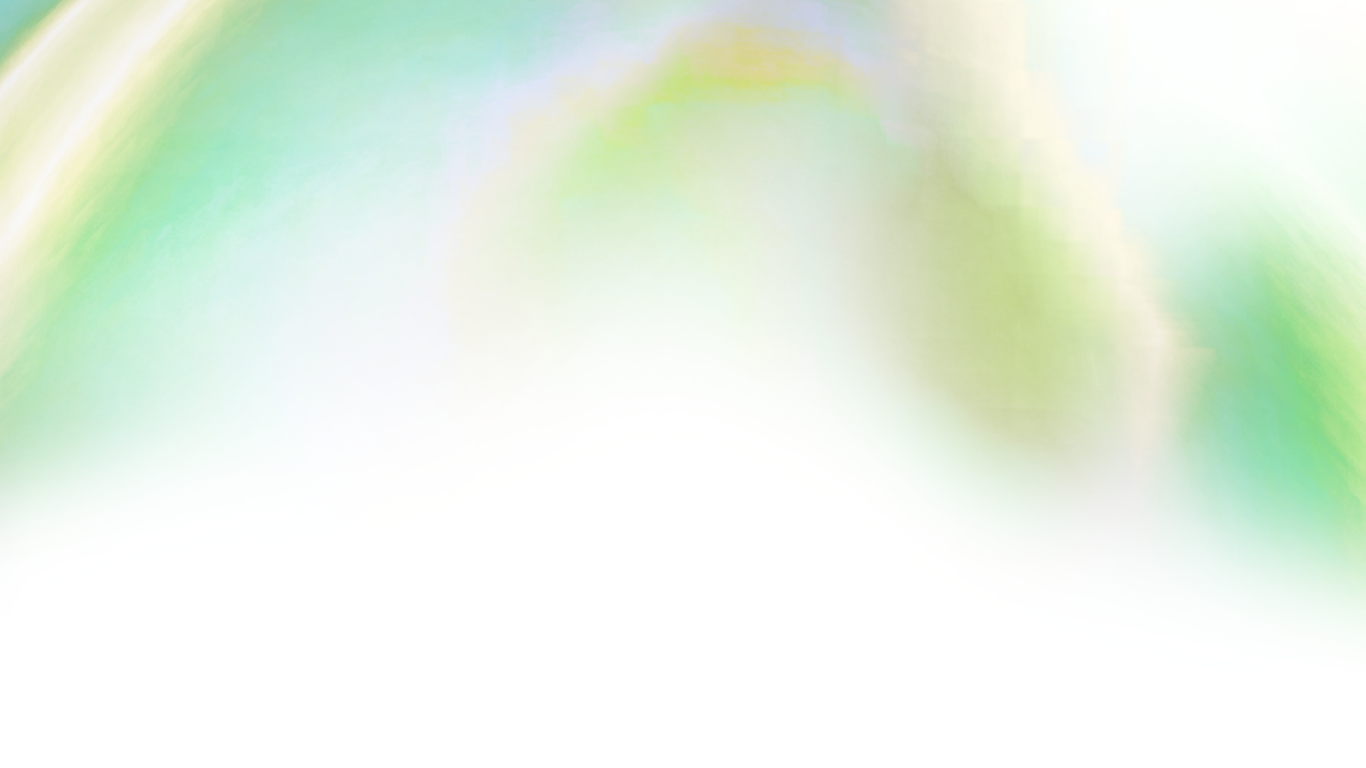
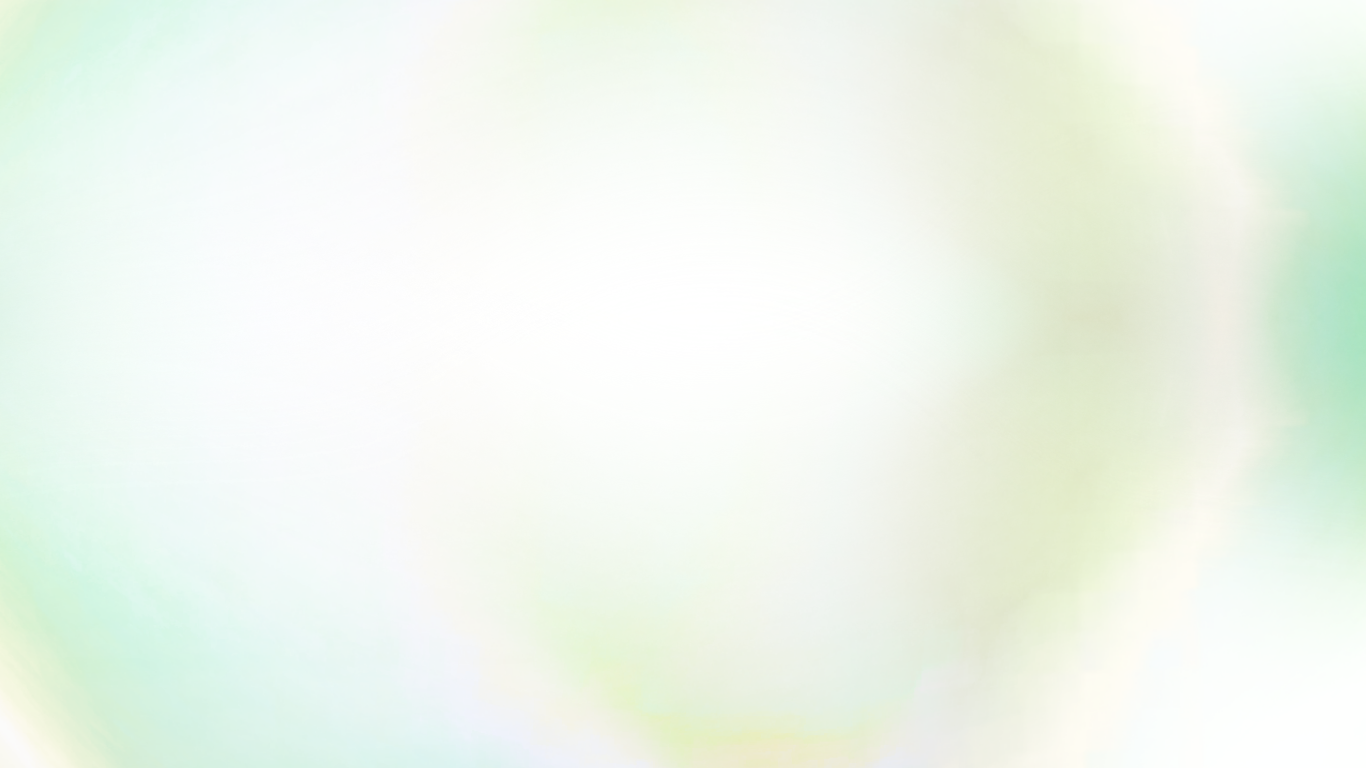
additions

diff --git a/components/CategoryRouteTransition.tsx b/components/CategoryRouteTransition.tsx
@@ -1,0 +1,109 @@
+"use client";
+
+import { useEffect, useRef, useState } from "react";
+import { usePathname, useRouter } from "next/navigation";
+
+const CATEGORY_PATHS = ["/arca", "/lingga", "/literacy", "/others"];
+
+export default function CategoryRouteTransition() {
+  const pathname = usePathname();
+  const router = useRouter();
+  const prevRef = useRef<string | null>(null);
+  const [visible, setVisible] = useState(false);
+  const [opaque, setOpaque] = useState(false);
+
+  // Helper to run the fade-to-white then navigate
+  const navigateWithFade = (targetPath: string) => {
+    setVisible(true);
+    // fade to white
+    requestAnimationFrame(() => setOpaque(true));
+
+    // wait for fade to white, then navigate, then fade back
+    setTimeout(() => {
+      router.push(targetPath);
+      // small delay to ensure new page mounted
+      setTimeout(() => {
+        setOpaque(false);
+        // hide overlay after fade-out
+        setTimeout(() => setVisible(false), 300);
+      }, 60);
+    }, 260);
+  };
+
+  // Intercept clicks on <a> to handle category-to-category navigation
+  useEffect(() => {
+    const handler = (e: MouseEvent) => {
+      const el = (e.target as Element)?.closest?.(
+        "a",
+      ) as HTMLAnchorElement | null;
+      if (!el) return;
+      const href = el.getAttribute("href") || el.href;
+      if (!href) return;
+
+      try {
+        const url = new URL(href, window.location.origin);
+        const path = url.pathname;
+        const isTargetCategory = CATEGORY_PATHS.includes(path);
+        const isFromCategory = CATEGORY_PATHS.includes(
+          window.location.pathname,
+        );
+        const isFromHome = window.location.pathname === "/";
+
+        // Trigger fade when navigating between categories, from a category to home,
+        // or from home to a category
+        const isNavigatingCategoryToHome = path === "/" && isFromCategory;
+        const isNavigatingHomeToCategory = isFromHome && isTargetCategory;
+
+        if (
+          isNavigatingCategoryToHome ||
+          isNavigatingHomeToCategory ||
+          (isTargetCategory && isFromCategory)
+        ) {
+          e.preventDefault();
+          navigateWithFade(path);
+        }
+      } catch (err) {
+        // ignore invalid URLs
+      }
+    };
+
+    document.addEventListener("click", handler, { capture: true });
+    return () =>
+      document.removeEventListener("click", handler, { capture: true });
+  }, []);
+
+  // Also handle non-click navigations (back/forward or programmatic).
+  useEffect(() => {
+    const prev = prevRef.current;
+    if (prev) {
+      const wasCategory = CATEGORY_PATHS.includes(prev);
+      const isCategoryNow = CATEGORY_PATHS.includes(pathname);
+
+      // category -> category OR category -> home OR home -> category
+      if (
+        (wasCategory && (isCategoryNow || pathname === "/")) ||
+        (prev === "/" && isCategoryNow)
+      ) {
+        // Show a quick white flash then fade to reveal new page
+        setVisible(true);
+        setOpaque(true);
+        setTimeout(() => {
+          setOpaque(false);
+          setTimeout(() => setVisible(false), 300);
+        }, 120);
+      }
+    }
+    prevRef.current = pathname;
+  }, [pathname]);
+
+  if (!visible) return null;
+
+  return (
+    <div
+      aria-hidden
+      className={`fixed inset-0 z-50 pointer-events-none bg-white transition-opacity duration-300 ${
+        opaque ? "opacity-100" : "opacity-0"
+      }`}
+    />
+  );
+}

diff --git a/components/navbar.tsx b/components/navbar.tsx
@@ -2,7 +2,7 @@
 
 import { useState, useEffect, useRef } from "react";
 import Link from "next/link";
-import { useRouter } from "next/navigation";
+import { useRouter, usePathname } from "next/navigation";
 import { useLanguage, LanguageCode } from "@/context/LanguageContext";
 
 type NavChild = {
@@ -126,6 +126,7 @@ export default function Navbar() {
   const langRef = useRef<HTMLDivElement>(null);
   const searchRef = useRef<HTMLDivElement>(null);
   const router = useRouter();
+  const pathname = usePathname();
 
   const { language, setLanguage, t } = useLanguage();
 
@@ -235,7 +236,17 @@ export default function Navbar() {
             >
               <Link
                 href={link.href}
-                className="flex items-center gap-1 whitespace-nowrap text-[15px] font-medium text-neutral-800 transition-colors hover:text-neutral-500"
+                className={`flex items-center gap-1 whitespace-nowrap text-[15px] font-medium transition-colors ${
+                  pathname
+                    ? link.href === "/"
+                      ? pathname === "/"
+                        ? "text-neutral-400"
+                        : "text-neutral-800 hover:text-neutral-500"
+                      : pathname.startsWith(link.href)
+                        ? "text-neutral-400"
+                        : "text-neutral-800 hover:text-neutral-500"
+                    : "text-neutral-800 hover:text-neutral-500"
+                }`}
               >
                 {link.label}
                 {link.children && (
@@ -507,7 +518,17 @@ export default function Navbar() {
                 key={link.href}
                 href={link.href}
                 onClick={() => setIsOpen(false)}
-                className="text-lg font-semibold leading-tight text-neutral-800 transition-colors hover:text-neutral-500"
+                className={`text-lg font-semibold leading-tight transition-colors ${
+                  pathname
+                    ? link.href === "/"
+                      ? pathname === "/"
+                        ? "text-neutral-400"
+                        : "text-neutral-800 hover:text-neutral-500"
+                      : pathname.startsWith(link.href)
+                        ? "text-neutral-400"
+                        : "text-neutral-800 hover:text-neutral-500"
+                    : "text-neutral-800 hover:text-neutral-500"
+                }`}
               >
                 {link.label}
               </Link>

diff --git a/app/layout.tsx b/app/layout.tsx
@@ -2,6 +2,7 @@ import type { Metadata } from "next";
 import { Poppins } from "next/font/google";
 import "./globals.css";
 import { LanguageProvider } from "@/context/LanguageContext";
+import CategoryRouteTransition from "@/components/CategoryRouteTransition";
 
 const poppins = Poppins({
   variable: "--font-poppins",
@@ -23,6 +24,7 @@ export default function RootLayout({
     <html lang="en" className={`${poppins.variable} h-full antialiased`}>
       <body className="min-h-full flex flex-col">
         <LanguageProvider>
+          <CategoryRouteTransition />
           <div className="flex-1 min-h-0">{children}</div>
 
           <footer className="bg-[#9fbb3c] border-t border-white/10 px-6 py-2 text-center text-sm text-white">
